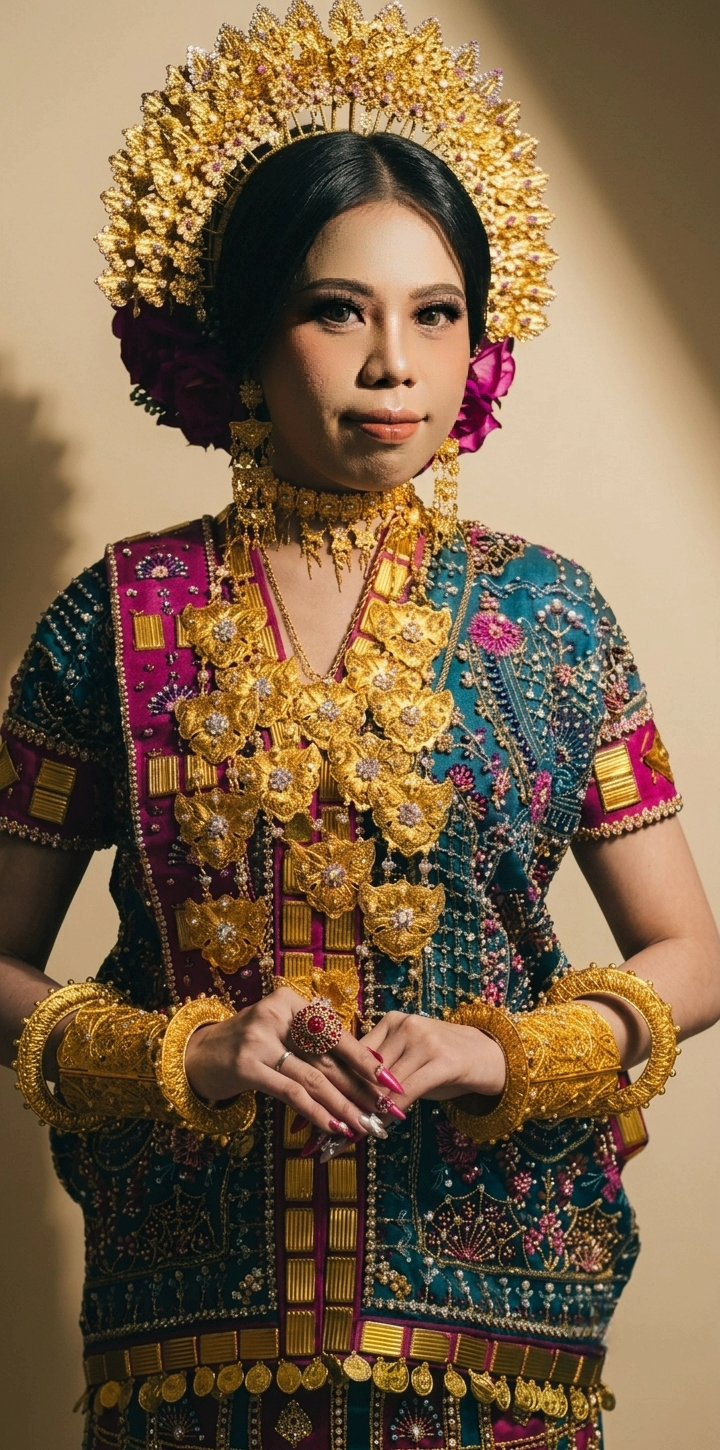
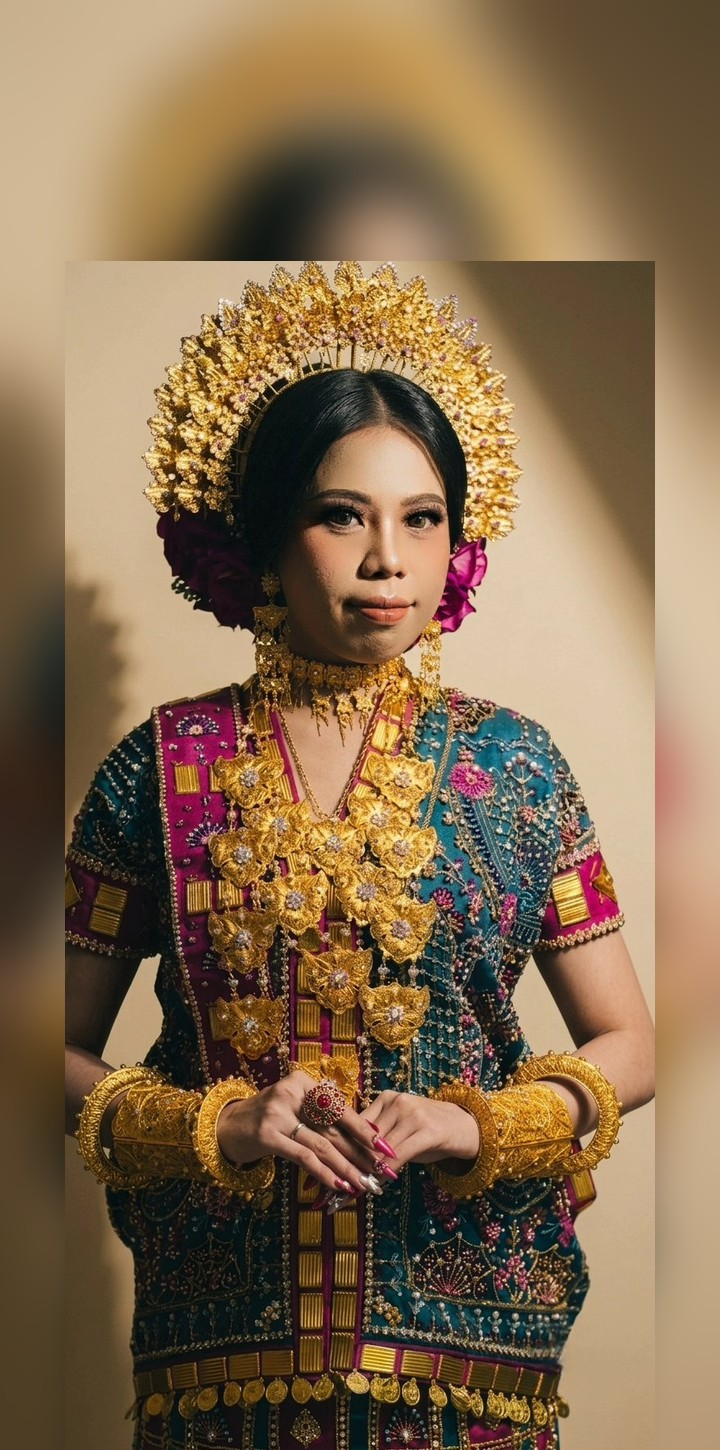
style: adjust bride photo and positioning to prevent top of crown from being cut off

diff --git a/index.html b/index.html
@@ -6,6 +6,9 @@
 		#saic-wrap-comment-39400, .saic-wrap-comments, .saic-wrap-form {
 			display: block !important;
 		}
+		.elementor-element-7e488914 .elementor-background-slideshow__slide__image {
+			background-position: center top !important;
+		}
 	</style>
 	<link rel="icon" href="KirimDigi.ico" type="image/x-icon">
 	<link rel="shortcut icon" href="KirimDigi.ico" type="image/x-icon">